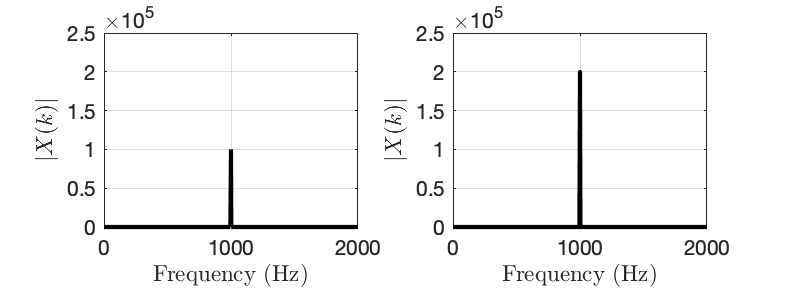
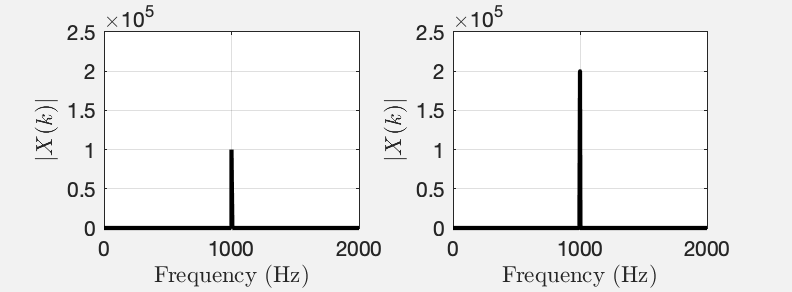
Migrate to Pages style 'slate'

diff --git a/_layouts/default.html b/_layouts/default.html
@@ -1,0 +1,65 @@
+<!DOCTYPE html>
+<html lang="{{ site.lang | default: "en-US" }}">
+
+  <head>
+    <meta charset='utf-8'>
+    <meta http-equiv="X-UA-Compatible" content="IE=edge">
+    <meta name="viewport" content="width=device-width,maximum-scale=2">
+    <link rel="stylesheet" type="text/css" media="screen" href="{{ '/assets/css/style.css?v=' | append: site.github.build_revision | relative_url }}">
+
+{% seo %}
+  </head>
+
+  <body>
+
+    <!-- HEADER -->
+    <div id="header_wrap" class="outer">
+        <header class="inner">
+          {% if site.github.is_project_page %}
+            <a id="forkme_banner" href="{{ site.github.repository_url }}">View on GitHub</a>
+          {% endif %}
+
+          <h1 id="project_title" style="font-size:200%">{{ site.title | default: site.github.repository_name }}</h1>
+          <!--
+          <h2 id="project_tagline" style="font-size:120%">{{ site.description | default: site.github.project_tagline }}</h2>
+          -->
+          <p><b><a href="../">Back to Table of Contents</a></b></p>
+
+          {% if site.show_downloads %}
+            <section id="downloads">
+              <a class="zip_download_link" href="{{ site.github.zip_url }}">Download this project as a .zip file</a>
+              <a class="tar_download_link" href="{{ site.github.tar_url }}">Download this project as a tar.gz file</a>
+            </section>
+          {% endif %}
+        </header>
+    </div>
+
+    <!-- MAIN CONTENT -->
+    <div id="main_content_wrap" class="outer">
+      <section id="main_content" class="inner">
+        {{ content }}
+      </section>
+    </div>
+
+    <!-- FOOTER  -->
+    <div id="footer_wrap" class="outer">
+      <footer class="inner">
+        {% if site.github.is_project_page %}
+        <p class="copyright">{{ site.title | default: site.github.repository_name }} maintained by <a href="{{ site.github.owner_url }}">{{ site.github.owner_name }}</a></p>
+        {% endif %}
+        <p>Published with <a href="https://pages.github.com">GitHub Pages</a></p>
+      </footer>
+    </div>
+
+    {% if site.google_analytics %}
+      <script>
+        (function(i,s,o,g,r,a,m){i['GoogleAnalyticsObject']=r;i[r]=i[r]||function(){
+        (i[r].q=i[r].q||[]).push(arguments)},i[r].l=1*new Date();a=s.createElement(o),
+        m=s.getElementsByTagName(o)[0];a.async=1;a.src=g;m.parentNode.insertBefore(a,m)
+        })(window,document,'script','//www.google-analytics.com/analytics.js','ga');
+        ga('create', '{{ site.google_analytics }}', 'auto');
+        ga('send', 'pageview');
+      </script>
+    {% endif %}
+  </body>
+</html>

diff --git a/assets/css/style.scss b/assets/css/style.scss
@@ -1,0 +1,13 @@
+---
+---
+
+@import "{{ site.theme }}";
+
+p {
+  text-align: justify;
+}
+
+img {
+  box-shadow: 0px 0px 0px
+}
+

diff --git a/notes_on_windows/main_lobes_rect.m b/notes_on_windows/main_lobes_rect.m
@@ -43,7 +43,7 @@ spec_1 = 2 * spec_1;
 spec_2 = 2 * spec_2;
 
 % ----------------- Plot everything in a simple way -----------------------
-figure('Color', [1, 1, 1], 'Position', [500 500 500 200]);
+figure('Color', [242, 242, 242]/255, 'Position', [500 500 500 200]);
 
 subplot(1, 2, 1);
 
@@ -68,10 +68,13 @@ grid on;
 xlabel('$k$', 'interpreter', 'latex');
 ylabel('$\left|\overline{X}_{\mathrm{SS}}(k)\right|$', 'interpreter', 'latex');
 
-% saveas(gcf, 'fig_2a.png');
+% make sure that background color is preserved when saving
+set(gcf, 'InvertHardCopy', 'off');
+
+%saveas(gcf, 'fig_2a.png');
 
 % ------------ Plot everything in a differentiated way --------------------
-figure('Color', [1, 1, 1], 'Position', [500 500 500 200]);
+figure('Color', [242, 242, 242]/255, 'Position', [500 500 500 200]);
 
 subplot(1, 2, 1);
 
@@ -101,5 +104,8 @@ grid on;
 xlabel('$k$', 'interpreter', 'latex');
 ylabel('$\left|\overline{X}_{\mathrm{SS}}(k)\right|$', 'interpreter', 'latex');
 
-% saveas(gcf, 'fig_2b.png');
+% make sure that background color is preserved when saving
+set(gcf, 'InvertHardCopy', 'off'); 
+
+%saveas(gcf, 'fig_2b.png');
 

diff --git a/AES2020_eBrief/fig_3_single_sided_amplitude_spectrum_2.m b/AES2020_eBrief/fig_3_single_sided_amplitude_spectrum_2.m
@@ -34,7 +34,7 @@ spec(2:end-1) = 2 * spec(2:end-1);
 f = linspace(0, fs/2, length(spec)).';
 
 % now do the plotting
-figure('Color', [1, 1, 1], 'Position', [500 500 380 200]);
+figure('Color', [242, 242, 242]/255, 'Position', [500 500 380 200]);
 
 % -------------- now do the plotting --------------
 subplot(1, 2, 1);
@@ -74,7 +74,10 @@ ylim([-30 10]);
 grid on;
 xlabel('Frequency (Hz)', 'interpreter', 'latex');
 ylabel('$20\log_{10} |\overline{X}_\mathrm{SS}(k)|$ re.~1 V', 'interpreter', 'latex');
-    
+
+% make sure that background color is preserved when saving
+set(gcf, 'InvertHardCopy', 'off');
+
 %saveas(gcf, 'fig_3.png');
 
     

diff --git a/AES2020_eBrief/fig_4_power_density_spectrum.m b/AES2020_eBrief/fig_4_power_density_spectrum.m
@@ -41,7 +41,7 @@ spec(2:end-1) = 2 * spec(2:end-1);
 f = linspace(0, fs/2, length(spec)).';
 
 % now do the plotting
-figure('Color', [1, 1, 1], 'Position', [500 500 380 200]);
+figure('Color', [242, 242, 242]/255, 'Position', [500 500 380 200]);
 
 % -------------- now do the plotting --------------
 subplot(1, 2, 1);
@@ -89,5 +89,8 @@ grid on;
 xlabel('Frequency (Hz)', 'interpreter', 'latex');
 
 ylabel('$10\log_{10} |\underline{\overline{\overline{X}}}_\mathrm{SS}(k)|$ re.~1 V$^2$/Hz', 'interpreter', 'latex');
+
+% make sure that background color is preserved when saving
+set(gcf, 'InvertHardCopy', 'off');
 
 %saveas(gcf, 'fig_4.png');

diff --git a/notes_on_windows/flat_top_window_applied.m b/notes_on_windows/flat_top_window_applied.m
@@ -30,7 +30,7 @@ spec(2:end-1) = 2 * spec(2:end-1);
 f = linspace(0, fs/2, length(spec)).';
 
 % now do the plotting
-figure('Color', [1, 1, 1], 'Position', [500 500 380 200]);
+figure('Color', [242, 242, 242]/255, 'Position', [500 500 380 200]);
 
 % -------------- now do the plotting --------------
 subplot(1, 2, 1);
@@ -72,5 +72,8 @@ ylim([-10 5]);
 grid on;
 xlabel('Frequency (Hz)', 'interpreter', 'latex');    
 ylabel('$20\log_{10} \left|\overline{X}_{w,\mathrm{SS}}(k)\right|$', 'interpreter', 'latex');
+
+% make sure that background color is preserved when saving
+set(gcf, 'InvertHardCopy', 'off'); 
 
 %saveas(gcf, 'fig_5.png');

diff --git a/notes_on_windows/amplitude_spectrum_two_sines.m b/notes_on_windows/amplitude_spectrum_two_sines.m
@@ -28,7 +28,7 @@ spec(2:end-1) = 2 * spec(2:end-1);
 f = linspace(0, fs/2, length(spec)).';
 
 % now do the plotting
-figure('Color', [1, 1, 1], 'Position', [500 500 380 200]);
+figure('Color', [242, 242, 242]/255, 'Position', [500 500 380 200]);
 
 % -------------- now do the plotting --------------
 subplot(1, 2, 1);
@@ -70,5 +70,8 @@ ylim([-10 5]);
 grid on;
 xlabel('Frequency (Hz)', 'interpreter', 'latex');    
 ylabel('$20\log_{10} \left|\overline{X}_\mathrm{SS}(k)\right|$', 'interpreter', 'latex');
+
+% make sure that background color is preserved when saving
+set(gcf, 'InvertHardCopy', 'off'); 
 
 %saveas(gcf, 'fig_1.png');

diff --git a/notes_on_windows/main_lobes_flat_top.m b/notes_on_windows/main_lobes_flat_top.m
@@ -53,7 +53,7 @@ spec_12 = 2 * spec_12;
 spec_22 = 2 * spec_22;
 
 % ------------------------- Plot everything -------------------------------
-figure('Color', [1, 1, 1], 'Position', [500 500 500 200]);
+figure('Color', [242, 242, 242]/255, 'Position', [500 500 500 200]);
 
 subplot(1, 2, 1);
 
@@ -95,6 +95,9 @@ ylim([-.1 1.1]);
 grid on;
 xlabel('$k$', 'interpreter', 'latex');
 ylabel('$\left|\overline{X}_{w,\mathrm{SS}}(k)\right|$', 'interpreter', 'latex');
+
+% make sure that background color is preserved when saving
+set(gcf, 'InvertHardCopy', 'off'); 
 
 %saveas(gcf, 'fig_4.png');
 

diff --git a/AES2020_eBrief/fig_2_single_sided_amplitude_spectrum_1.m b/AES2020_eBrief/fig_2_single_sided_amplitude_spectrum_1.m
@@ -26,7 +26,7 @@ spec(2:end-1) = 2*spec(2:end-1);
 f = linspace(0, fs/2, length(spec)).';
 
 % do the plotting
-figure('Color', [1, 1, 1], 'Position', [500 500 380 200]);
+figure('Color', [242, 242, 242]/255, 'Position', [500 500 380 200]);
 
 subplot(2, 1, 1);
 
@@ -47,5 +47,8 @@ ylim([-.2 1.2]);
 grid on;
 xlabel('Frequency (Hz)', 'interpreter', 'latex');
 ylabel('$\left|\overline{X}_\mathrm{SS}(k)\right|$ (V)', 'interpreter', 'latex');
+
+% make sure that background color is preserved when saving
+set(gcf, 'InvertHardCopy', 'off');
 
 %saveas(gcf, 'fig_2.png');

diff --git a/AES2020_eBrief/fig_1_unscaled_magnitude_spectrum.m b/AES2020_eBrief/fig_1_unscaled_magnitude_spectrum.m
@@ -23,7 +23,7 @@ spec(2:end-1) = 2*spec(2:end-1);
 f = linspace(0, fs/2, length(spec)).';
 
 % do the plotting
-figure('Color', [1, 1, 1], 'Position', [500 500 380 140]);
+figure('Color', [242, 242, 242]/255, 'Position', [500 500 380 140]);
 
 subplot(1, 2, 1);
 
@@ -60,4 +60,7 @@ grid on;
 xlabel('Frequency (Hz)', 'interpreter', 'latex');
 ylabel('$\left|X(k)\right|$', 'interpreter', 'latex');
 
-%saveas(gcf, 'fig_1.png');
+% make sure that background color is preserved when saving
+set(gcf, 'InvertHardCopy', 'off'); 
+
+saveas(gcf, 'fig_1.png');

diff --git a/notes_on_windows/flat_top_window_time_domain.m b/notes_on_windows/flat_top_window_time_domain.m
@@ -6,7 +6,7 @@ N = 101;
 
 win = flattopwin(N); 
 
-figure('Color', [1, 1, 1], 'Position', [500 500 250 150]);
+figure('Color', [242, 242, 242]/255, 'Position', [500 500 250 150]);
 
 plot(0:N-1, win, 'k', 'Linewidth', 2);
 
@@ -16,5 +16,8 @@ set(gca, 'YTick', (-.2 : .2 : 1.2));
 grid on;
 xlabel('$n$', 'interpreter', 'latex');    
 ylabel('$w_\mathrm{flattop}(n)$', 'interpreter', 'latex'); 
+
+% make sure that background color is preserved when saving
+set(gcf, 'InvertHardCopy', 'off'); 
 
 %saveas(gcf, 'fig_3.png');

diff --git a/AES2020_eBrief/README.md b/AES2020_eBrief/README.md
@@ -23,7 +23,7 @@ The combination of the time-discrete property of digital signals together with t
 
 The Fourier transform (FT) is one of the most common mathematical operations in acoustics and audio. Definitions for continuous signals (CFT) as well as for discrete signals (DFT) exist. When speaking of a discrete signal, we refer to a signal that exhibits a dependency on a discrete variable such as time or space. We assume the instantaneous amplitude of the signal to be known with infinite accuracy. 
 
-Discrete signals require a somewhat different treatment than continuous ones because discrete signals are not physical. One aspect with which this becomes evident is interpreting the magnitude of the spectrum of a discrete signal, which is greatly facilitated when the spectrum is scaled. Although the scaling methods that we present here are widely known, we are not aware of a compact resource that summarizes the important information in an educational manner. This tutorial aims at filling this gap. Our treatment will be simplifying in a latent manner in the sense that we leave out certain less tangible details of the matter and focus on the fundamental concepts. We refer the reader to the references based on which we compiled this tutorial [[1](#[1])], [[2](#[2]), Sec. 4.2] [[3](#[3]), Ch. 4], [[4](#[4]), Ch. 6] and to the supplementary materials that we provide s\cite{github_scaling}. For ease of compactness, we omit stating proofs.
+Discrete signals require a somewhat different treatment than continuous ones because discrete signals are not physical. One aspect with which this becomes evident is interpreting the magnitude of the spectrum of a discrete signal, which is greatly facilitated when the spectrum is scaled. Although the scaling methods that we present here are widely known, we are not aware of a compact resource that summarizes the important information in an educational manner. This tutorial aims at filling this gap. Our treatment will be simplifying in a latent manner in the sense that we leave out certain less tangible details of the matter and focus on the fundamental concepts. We refer the reader to the references based on which we compiled this tutorial [[1](#[1])], [[2](#[2]), Sec. 4.2] [[3](#[3]), Ch. 4], [[4](#[4]), Ch. 6] and to the supplementary materials that we provide \cite{github_scaling}. For ease of compactness, we omit stating proofs.
 
 After a brief excursion to the CFT in Sec. [2](#sec:cft), scaling options for the DFT are presented in Sec. [3.1](#sec:scaling_tones) and [3.2](#sec:scaling_broadband). Sec. [3.3](sec:single-sided) introduces the concept single-sided spectra, which the scaling approach requires to produce a representation of the spectrum that can be interpreted conveniently. Examples are presented. Further aspects are discussed in Sec. [4](#sec:windowing) and [5](#sec:closing_remarks).
 
@@ -79,7 +79,7 @@ yields an _amplitude spectrum_, i.e. a spectrum $$X(\omega)$$ whose implied unit
 
 
 
-<img src="fig_1.png" alt="fig_1" title="fig_1" style="zoom:60%;" />
+<img src="fig_1.png" alt="fig_1" title="fig_1" border="0" align="center" style="zoom:60%;" />
 
 
 
@@ -153,7 +153,7 @@ To highlight the usefulness of the single-sided representation, Fig. [2](#fig2) 
 
 
 
-<img src="fig_2.png" alt="fig_2" title="fig_2" style="zoom:60%;" />
+<img src="fig_2.png" alt="fig_2" title="fig_2" border="0" align="center" style="zoom:60%;" />
 
 
 
@@ -165,7 +165,7 @@ However, the picture is very different when interpreting amplitude spectra of br
 
 
 
-<img src="fig_3.png" alt="fig_3" title="fig_3" style="zoom:60%;" />
+<img src="fig_3.png" alt="fig_3" title="fig_3" border="0" align="center" style="zoom:60%;" />
 
 
 
@@ -177,7 +177,7 @@ When the analysis of the noise in the signal from Fig. [3](#fig3) is of interest
 
 
 
-<img src="fig_4.png" alt="fig_4" title="fig_4" style="zoom:60%;" />
+<img src="fig_4.png" alt="fig_4" title="fig_4" border="0" align="center" style="zoom:60%;" />
 
 
 
@@ -265,6 +265,7 @@ $$
 \tag{15}\label{eq:k}
     f(k) = \frac{k}{N}\cdot f_\text{s}  \ \ \ \forall \ 0 \leq k \leq N/2 \, .
 $$
+
 Eq. \eqref{eq:k} was used in all figures in this paper that depict spectra to express the horizontal axis in Hz.
 
 
